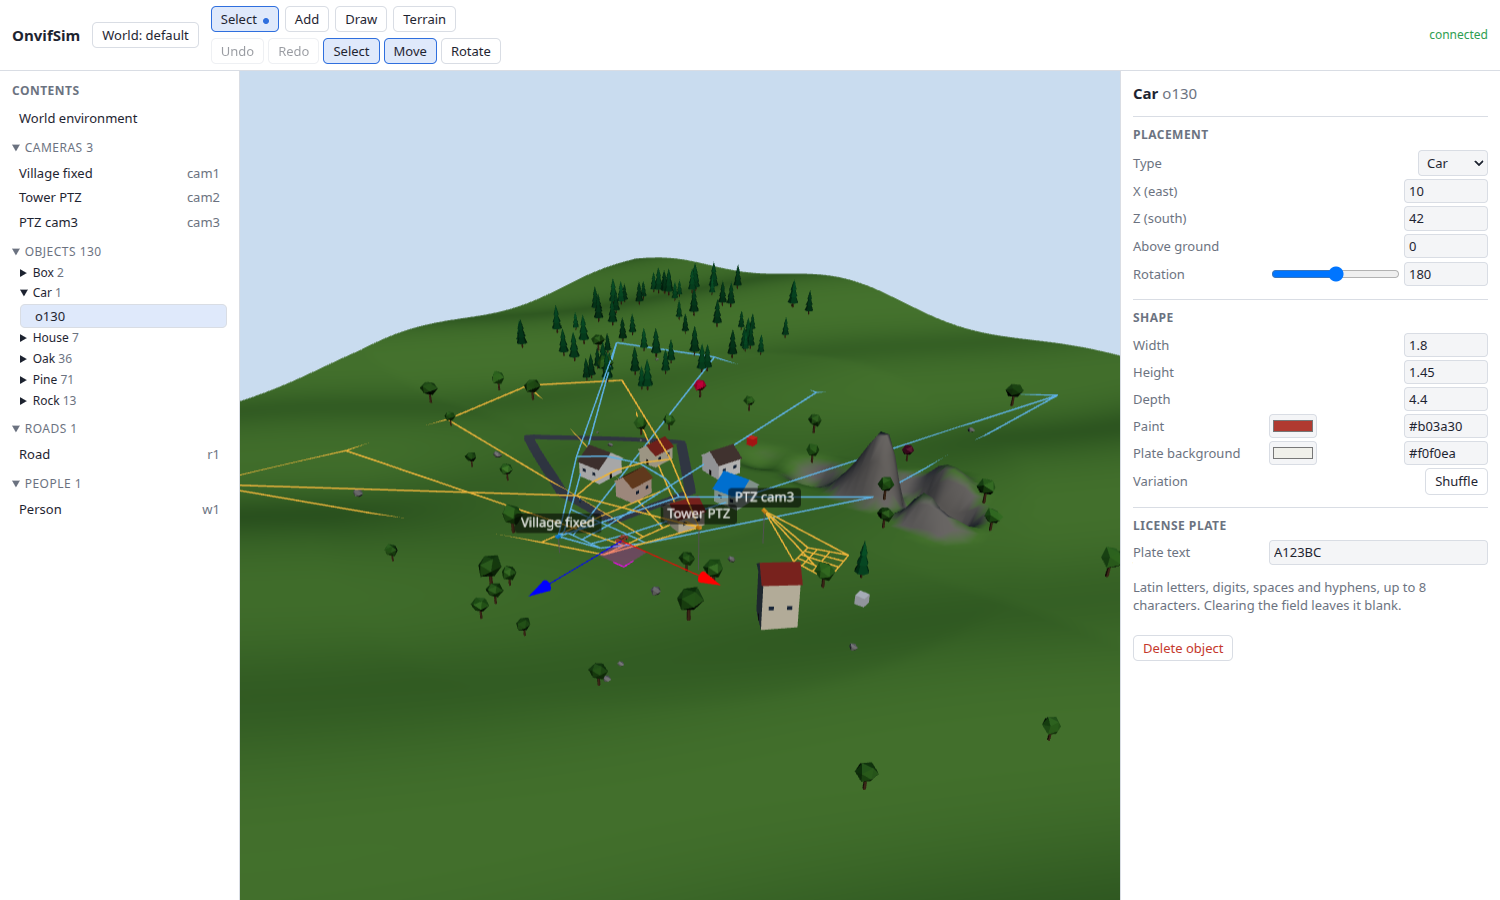
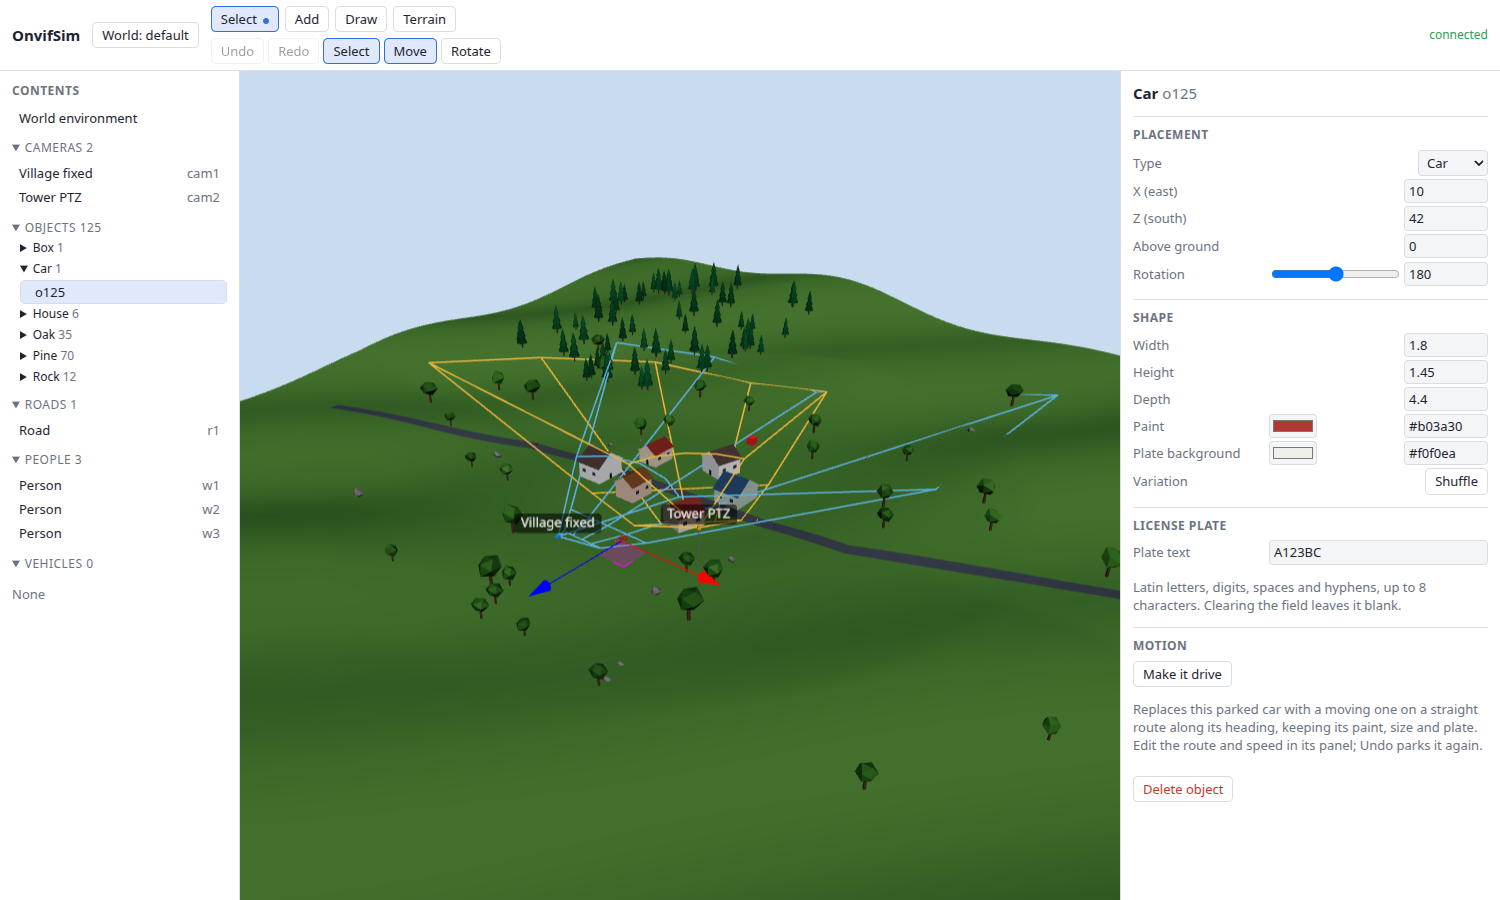
Turn a parked car into a moving one from its own panel
A car placed as an object and a car driving a route were separate
things, with no way from one to the other: the only hint was to delete
the parked car and draw a route for a new one. The car panel now has
Make it drive, which replaces it with a vehicle at the same spot, on a
straight route along the heading it already faces, keeping its paint,
size and plate. The conversion is one history step, so one Undo parks
it again.

diff --git a/src/OnvifSim.Web/src/store.ts b/src/OnvifSim.Web/src/store.ts
@@ -264,6 +264,9 @@ type Part =
   | { kind: 'road'; id: string; value: Road | null }
   | { kind: 'walker'; id: string; value: Walker | null }
   | { kind: 'vehicle'; id: string; value: Vehicle | null }
+  // One parked car becoming a moving one, or the way back. Both ends are kept so the step undoes as
+  // a whole: a car conversion is one action, not a creation and a deletion.
+  | { kind: 'driving-car'; object: WorldObject; vehicle: Vehicle; moving: boolean }
   | { kind: 'terrain'; value: Terrain }
   | { kind: 'environment'; value: Environment };
 
@@ -281,7 +284,9 @@ const undoStack: HistoryEntry[] = [];
 const redoStack: HistoryEntry[] = [];
 
 function keyOf(part: Part): string {
-  return part.kind === 'terrain' || part.kind === 'environment' ? part.kind : `${part.kind}:${part.id}`;
+  if (part.kind === 'terrain' || part.kind === 'environment') return part.kind;
+  if (part.kind === 'driving-car') return `driving-car:${part.object.id}:${part.vehicle.id}`;
+  return `${part.kind}:${part.id}`;
 }
 
 // The same part as it is in the world now.
@@ -297,6 +302,12 @@ function currentOf(world: World, part: Part): Part {
       return { ...part, value: world.walkers.find((w) => w.id === part.id) ?? null };
     case 'vehicle':
       return { ...part, value: world.vehicles.find((v) => v.id === part.id) ?? null };
+    case 'driving-car': {
+      const object = world.objects.find((o) => o.id === part.object.id);
+      if (object) return { ...part, object, moving: false };
+      const vehicle = world.vehicles.find((v) => v.id === part.vehicle.id);
+      return vehicle ? { ...part, vehicle, moving: true } : { ...part, moving: false };
+    }
     case 'terrain':
       return { kind: 'terrain', value: world.terrain };
     case 'environment':
@@ -321,6 +332,13 @@ function applyPart(world: World, part: Part): World {
       return { ...world, walkers: upsert(world.walkers, part.id, part.value) };
     case 'vehicle':
       return { ...world, vehicles: upsert(world.vehicles, part.id, part.value) };
+    case 'driving-car': {
+      const objects = world.objects.filter((o) => o.id !== part.object.id);
+      const vehicles = world.vehicles.filter((v) => v.id !== part.vehicle.id);
+      return part.moving
+        ? { ...world, objects, vehicles: [...vehicles, part.vehicle] }
+        : { ...world, objects: [...objects, part.object], vehicles };
+    }
     case 'terrain':
       return { ...world, terrain: part.value };
     case 'environment':
@@ -340,6 +358,13 @@ async function sendPart(part: Part): Promise<unknown> {
       return part.value ? api.putWalker(part.value) : ignoreMissing(api.deleteWalker(part.id));
     case 'vehicle':
       return part.value ? api.putVehicle(part.value) : ignoreMissing(api.deleteVehicle(part.id));
+    case 'driving-car':
+      if (part.moving) {
+        await api.putVehicle(part.vehicle);
+        return ignoreMissing(api.deleteObject(part.object.id));
+      }
+      await api.putObject(part.object);
+      return ignoreMissing(api.deleteVehicle(part.vehicle.id));
     case 'terrain':
       return api.putTerrain(part.value);
     case 'environment':
@@ -417,6 +442,32 @@ export function updateWalker(walker: Walker) {
 
 export function updateVehicle(vehicle: Vehicle) {
   change({ kind: 'vehicle', id: vehicle.id, value: vehicle });
+}
+
+// Turns the selected parked car into a moving one on a straight route along the way it faces, keeping
+// its paint, size and plate. One edit, so one Undo brings the parked car back.
+export function driveCar(obj: WorldObject) {
+  const world = useEditor.getState().world;
+  if (!world || obj.type !== 'car') return;
+  const heading = (obj.rotationY * Math.PI) / 180;
+  const vehicle: Vehicle = {
+    id: nextId('v', world.vehicles.map((v) => v.id)),
+    route: [
+      { x: obj.position.x, z: obj.position.z },
+      { x: obj.position.x + Math.sin(heading) * 30, z: obj.position.z - Math.cos(heading) * 30 },
+    ],
+    speed: 8,
+    return: 'reverse',
+    width: obj.scale.x,
+    height: obj.scale.y,
+    length: obj.scale.z,
+    color: obj.color,
+    color2: obj.color2,
+    plate: obj.plate ?? null,
+    detectable: true,
+  };
+  change({ kind: 'driving-car', object: obj, vehicle, moving: true }, { merge: false, delayMs: 0 });
+  select({ kind: 'vehicle', id: vehicle.id });
 }
 
 // Every stroke of a brush is a step of its own, however quickly the next one follows.

diff --git a/src/OnvifSim.Web/src/panels/ObjectInspector.tsx b/src/OnvifSim.Web/src/panels/ObjectInspector.tsx
@@ -1,5 +1,5 @@
 import { objectTypeNames, objectTypes, plateText, type ObjectType, type Vec3, type WorldObject } from '../model';
-import { defaultScale, removeSelected, updateObject } from '../store';
+import { defaultScale, driveCar, removeSelected, updateObject } from '../store';
 import { ColorField, NumberField, Section, SelectField, TextField } from './fields';
 
 // What Color and Color2 paint for each type, and the colours the server uses when they are not set
@@ -69,6 +69,17 @@ export function ObjectInspector({ obj }: { obj: WorldObject }) {
         <Section title="License plate">
           <TextField label="Plate text" value={obj.plate ?? 'A123BC'} onChange={(text) => change({ plate: plateText(text) })} />
           <p className="muted">Latin letters, digits, spaces and hyphens, up to 8 characters. Clearing the field leaves it blank.</p>
+        </Section>
+      )}
+      {obj.type === 'car' && (
+        <Section title="Motion">
+          <button type="button" onClick={() => driveCar(obj)}>
+            Make it drive
+          </button>
+          <p className="muted">
+            Replaces this parked car with a moving one on a straight route along its heading, keeping its paint, size and
+            plate. Edit the route and speed in its panel; Undo parks it again.
+          </p>
         </Section>
       )}
       <button type="button" className="danger" onClick={removeSelected}>

diff --git a/src/OnvifSim.Web/e2e/editor.spec.ts b/src/OnvifSim.Web/e2e/editor.spec.ts
@@ -216,6 +216,16 @@ test('a car can be placed and its plate edited', async ({ page, request }) => {
   await page.getByLabel('Plate text', { exact: true }).fill('B777AA');
   await page.getByLabel('Plate text', { exact: true }).blur();
   await expect.poll(async () => (await objectById(request, id))?.plate).toBe('B777AA');
+
+  // The parked car becomes a moving one, keeping its plate; one Undo parks it again.
+  await page.getByRole('button', { name: 'Make it drive', exact: true }).click();
+  await expect(page.getByRole('heading', { level: 2 })).toContainText('Car');
+  await expect.poll(async () => (await world(request)).objects.some((o) => o.id === id)).toBe(false);
+  await expect.poll(async () => (await world(request)).vehicles.find((v) => v.plate === 'B777AA')?.route.length).toBe(2);
+
+  await page.getByRole('button', { name: 'Undo', exact: true }).click();
+  await expect.poll(async () => (await world(request)).objects.some((o) => o.id === id)).toBe(true);
+  await expect.poll(async () => (await world(request)).vehicles.some((v) => v.plate === 'B777AA')).toBe(false);
 });
 
 test('a car drives the route drawn for it', async ({ page, request }) => {

diff --git a/README.md b/README.md
@@ -239,10 +239,11 @@ is marked with a dot, so the viewport keeps doing exactly what it did until anot
 - **Cars** have a plate text field: Latin letters, digits, spaces and hyphens, up to 8 characters. The
   plate is part of the mesh, so it appears in every camera picture as well as in the editor. As with
   real cameras, the characters are readable at close range or through a narrow lens; a wide camera at
-  village distance shows the car, not the text. **Car route** under Draw makes a car drive a route:
-  set its speed, whether it loops or goes back, its body size, paint, plate background and plate, and
-  whether cameras' analytics report it. A selected car shows its route, and the points drag like a
-  person's.
+  village distance shows the car, not the text. **Make it drive** in a parked car's panel turns it
+  into a moving car on a straight route along the way it faces, keeping its paint, size and plate;
+  one Undo parks it again. **Car route** under Draw makes a moving car from a route you draw: set its
+  speed, whether it loops or goes back, its body size, paint, plate background and plate, and whether
+  cameras' analytics report it. A selected car shows its route, and the points drag like a person's.
 
 <p align="center">
   <img src="docs/images/car-plate.png" alt="The editor with the car selected: its body and plate settings, including the plate text" width="90%">

diff --git a/CHANGELOG.md b/CHANGELOG.md
@@ -24,7 +24,9 @@
   follows from the clock like a walker's, so every stream, snapshot and replay agrees. Cameras'
   analytics box it with the class `Vehicle` in the ONVIF metadata track and raise motion while it is
   in view; `vehicles` is a list in the world file, with `/api/vehicles/{id}` and a ground-truth
-  `/api/vehicles/{id}/pose`. The route rule is shared with walkers (`RouteMotion`).
+  `/api/vehicles/{id}/pose`. The route rule is shared with walkers (`RouteMotion`). A parked car's
+  panel has **Make it drive**, which turns it into a moving car on a straight route along its heading
+  and keeps its paint, size and plate; the conversion is one Undo step.
 - **Documentation**: the README is now the complete English documentation; the outdated
   `docs/PLAN.md` was removed (git history keeps it), and the README gained screenshots of the world
   manager, the contents tree, the car's plate and a moving car's route.
